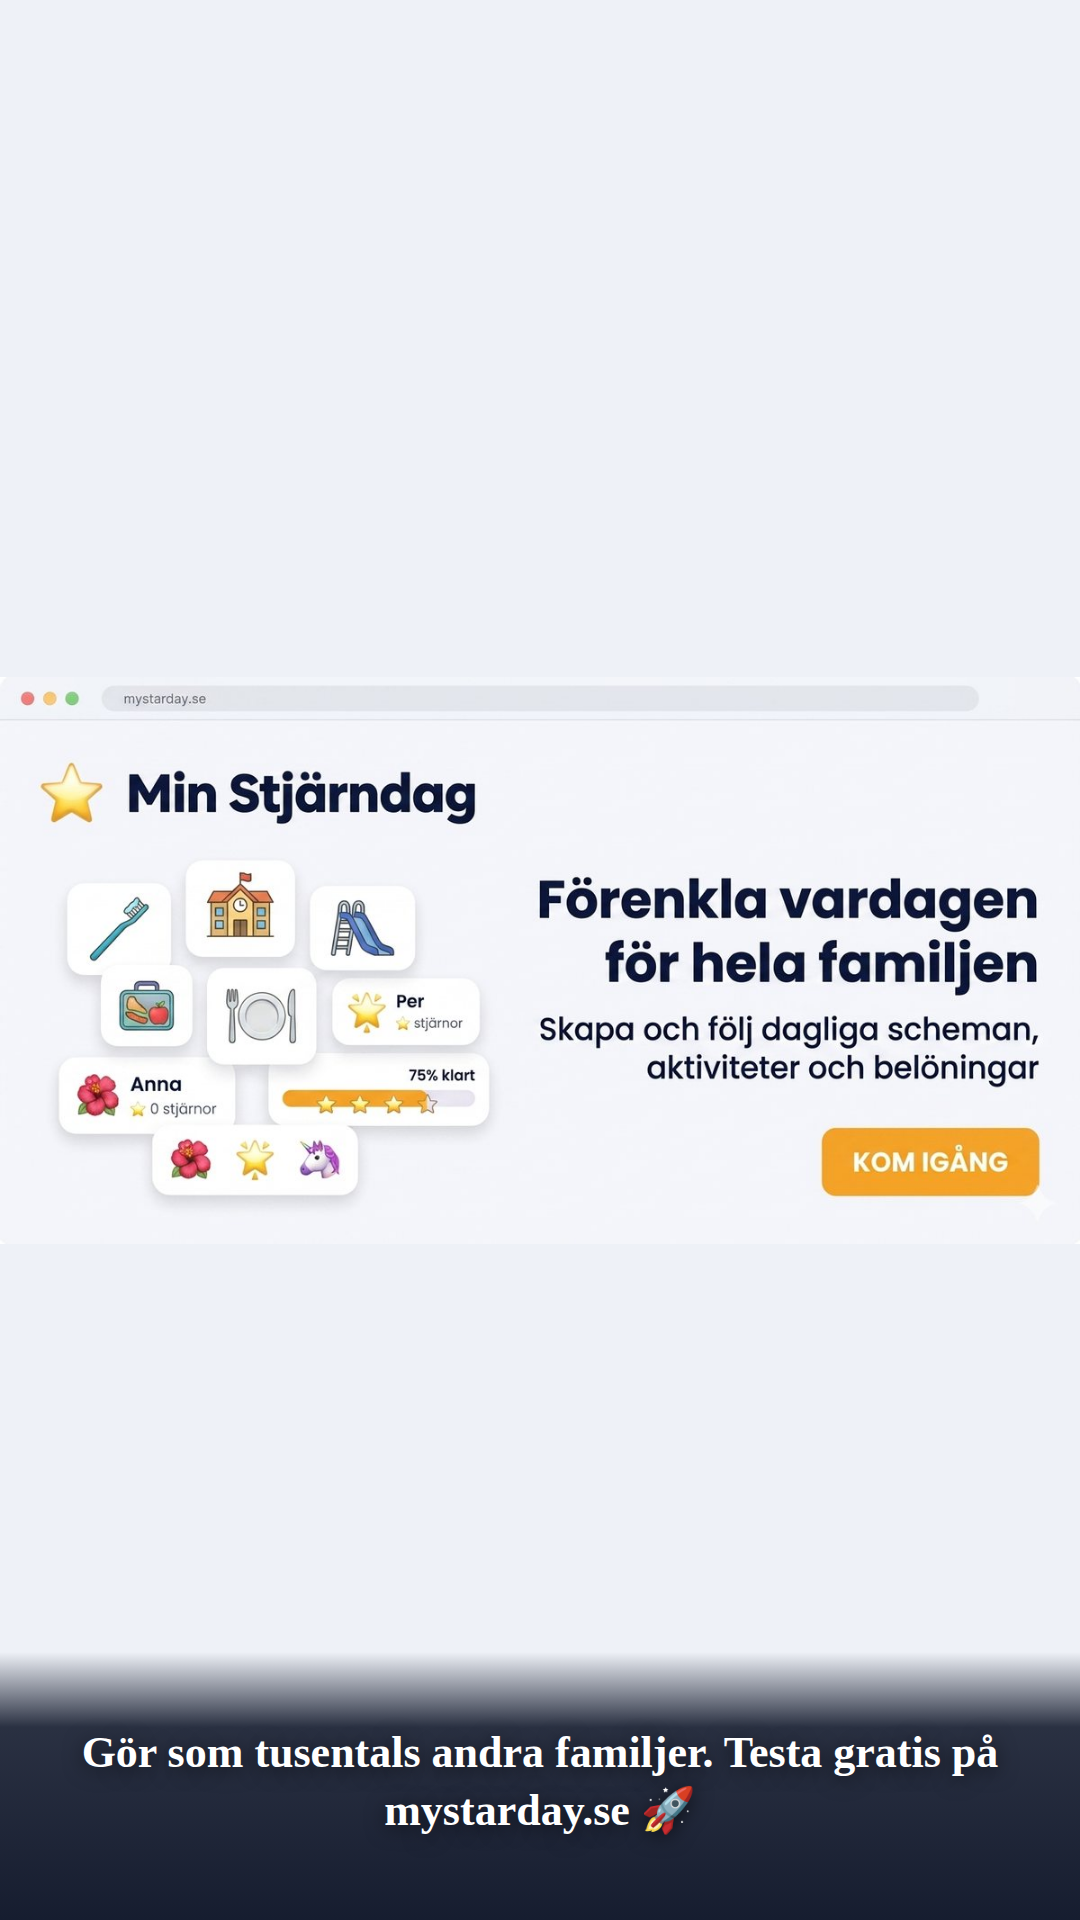
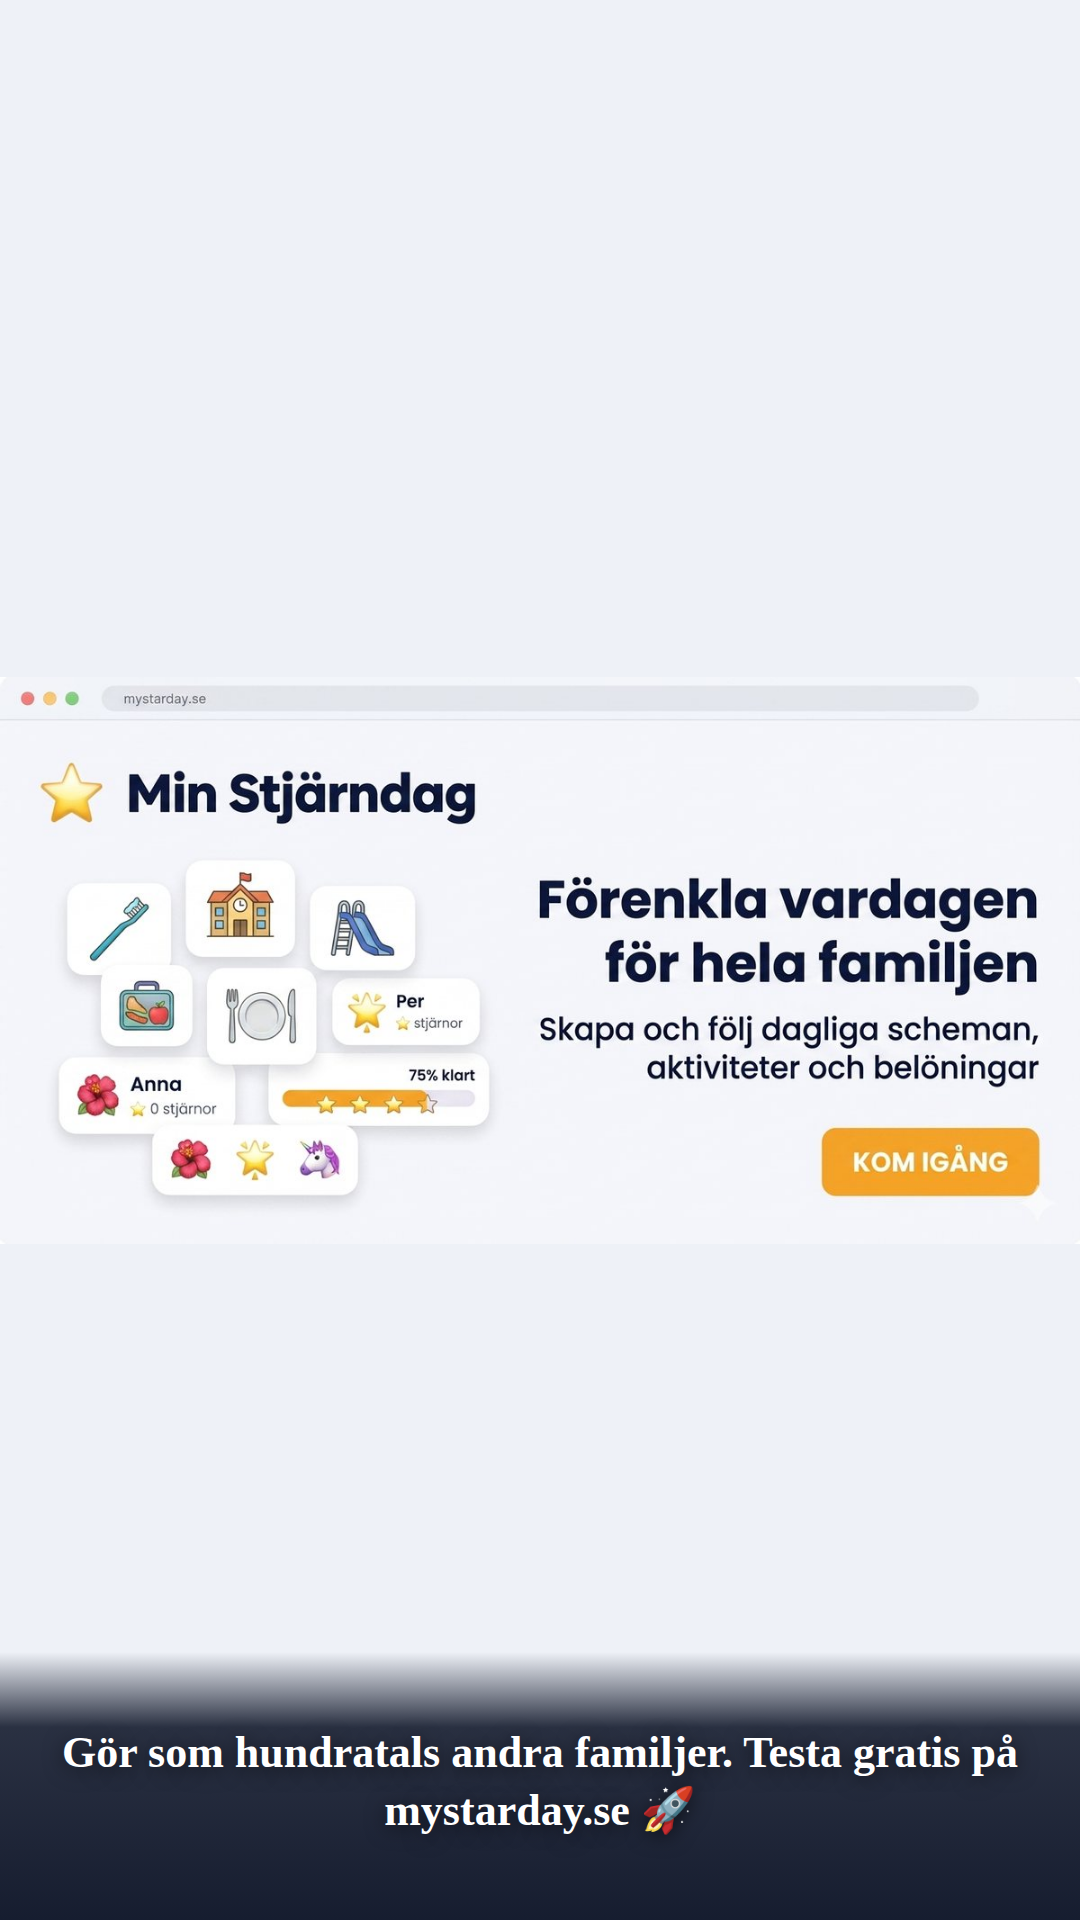
Instagram video: hundratals (inte tusentals) på sista bilden

Changed region(s): [[0.0611, 0.9062, 0.9472, 0.9375]]

diff --git a/docs/marketing/instagram-recensioner/ANNONS-KOPI.md b/docs/marketing/instagram-recensioner/ANNONS-KOPI.md
@@ -21,7 +21,7 @@ Eller: `bash scripts/instagram-recensioner-mac.sh`
 | 10–15s | Färdiga scheman | Färdiga mallar för morgon, kväll och lov – kopiera med ett klick. 📋 |
 | 15–20s | Rutiner (För dig) | Aktivera morgon- eller kvällsrutin direkt från För dig. ☀🌙 |
 | 20–25s | Hem (föräldrapanel) | Allt samlat för föräldern – schema, stjärnor och översikt. 📊 |
-| 25–30s | Landningssida | Gör som tusentals andra familjer. Testa gratis på mystarday.se 🚀 |
+| 25–30s | Landningssida | Gör som hundratals andra familjer. Testa gratis på mystarday.se 🚀 |
 
 Ändra längd: `SEC_PER_SLIDE=4 npm run instagram:recensioner` (måste köras från repo-roten, inte denna undermapp)
 
